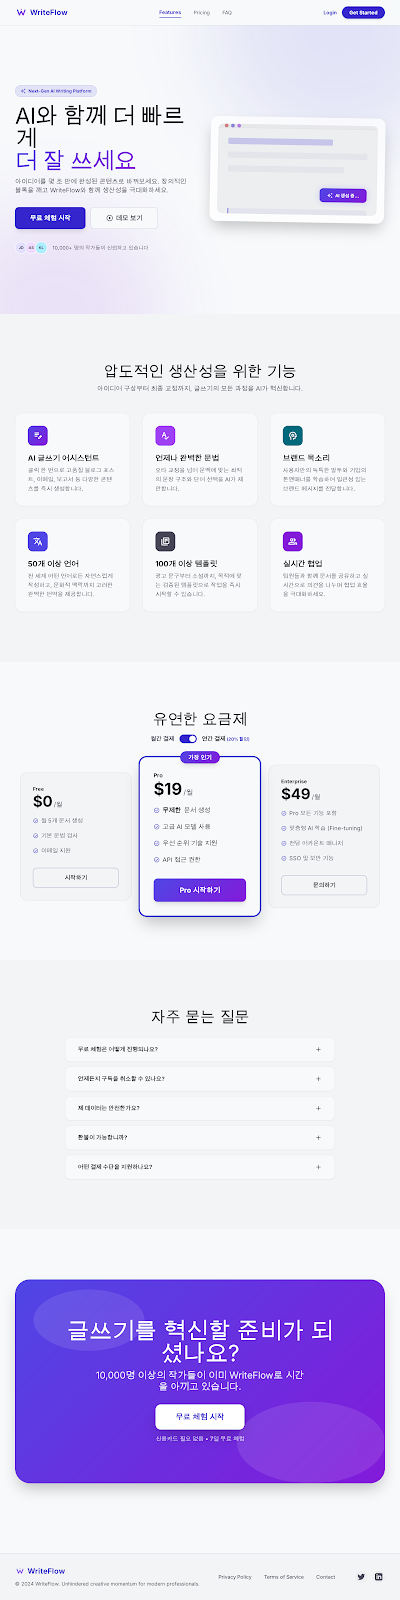
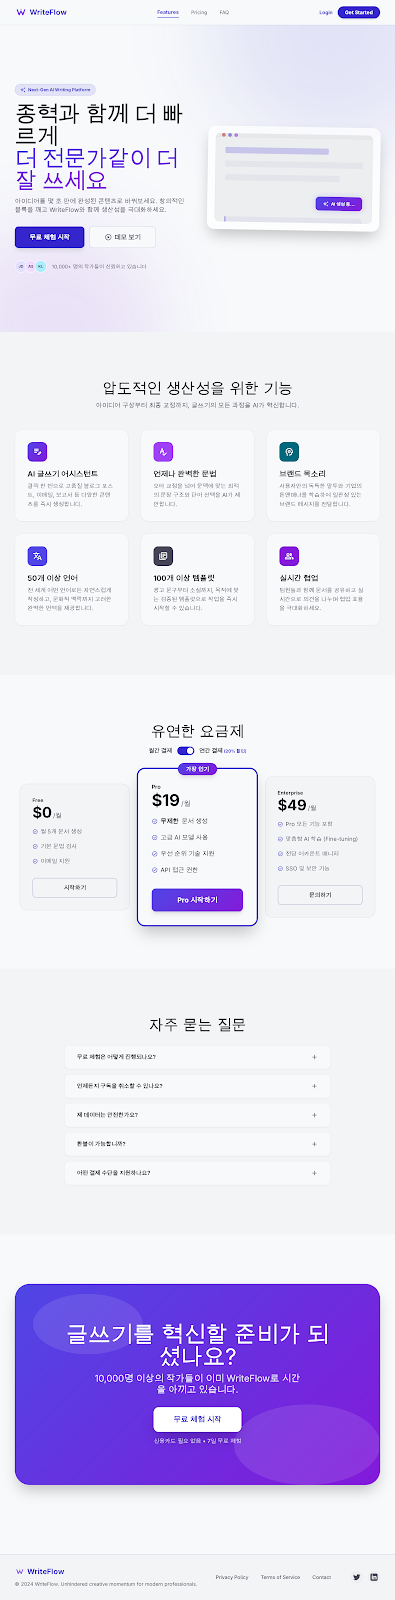
ㅁㄴㅇㅁㄴㅇ

diff --git a/app/pricing/page.tsx b/app/pricing/page.tsx
@@ -10,11 +10,11 @@ export default function Pricing() {
           className="w-full h-auto block"
         />
 
-        {/* 상단 네비게이션 통일 영역 (기존 메뉴를 흰색 배경으로 덮어씀) */}
-        <div className="absolute top-0 right-0 w-[60%] h-[80px] bg-white z-20 flex items-center justify-end gap-8 md:gap-12 px-10">
-          <Link href="/" className="cursor-pointer text-gray-800 hover:text-blue-600 font-bold text-[16px] md:text-[18px] whitespace-nowrap transition-colors">기능</Link>
-          <Link href="/pricing" className="cursor-pointer text-gray-800 hover:text-blue-600 font-bold text-[16px] md:text-[18px] whitespace-nowrap transition-colors">요금제</Link>
-          <Link href="/faq" className="cursor-pointer text-gray-800 hover:text-blue-600 font-bold text-[16px] md:text-[18px] whitespace-nowrap transition-colors">자주 묻는 질문</Link>
+        {/* 상단 네비게이션 투명 클릭 영역 (이미지에 디자인이 포함되어 있으므로 영역만 지정) */}
+        <div className="absolute top-0 right-0 w-[70%] h-[80px] z-20 flex items-center justify-end">
+          <Link href="/" className="w-[15%] h-full cursor-pointer" title="기능" />
+          <Link href="/pricing" className="w-[15%] h-full cursor-pointer" title="요금제" />
+          <Link href="/faq" className="w-[20%] h-full cursor-pointer mr-[2%]" title="자주 묻는 질문" />
         </div>
         
         {/* 로고 영역 클릭 (홈으로) */}

diff --git a/app/faq/page.tsx b/app/faq/page.tsx
@@ -10,11 +10,11 @@ export default function FAQ() {
           className="w-full h-auto block"
         />
 
-        {/* 상단 네비게이션 통일 영역 (기존 메뉴를 흰색 배경으로 덮어씀) */}
-        <div className="absolute top-0 right-0 w-[60%] h-[80px] bg-white z-20 flex items-center justify-end gap-8 md:gap-12 px-10">
-          <Link href="/" className="cursor-pointer text-gray-800 hover:text-blue-600 font-bold text-[16px] md:text-[18px] whitespace-nowrap transition-colors">기능</Link>
-          <Link href="/pricing" className="cursor-pointer text-gray-800 hover:text-blue-600 font-bold text-[16px] md:text-[18px] whitespace-nowrap transition-colors">요금제</Link>
-          <Link href="/faq" className="cursor-pointer text-gray-800 hover:text-blue-600 font-bold text-[16px] md:text-[18px] whitespace-nowrap transition-colors">자주 묻는 질문</Link>
+        {/* 상단 네비게이션 투명 클릭 영역 (이미지에 디자인이 포함되어 있으므로 영역만 지정) */}
+        <div className="absolute top-0 right-0 w-[70%] h-[80px] z-20 flex items-center justify-end">
+          <Link href="/" className="w-[15%] h-full cursor-pointer" title="기능" />
+          <Link href="/pricing" className="w-[15%] h-full cursor-pointer" title="요금제" />
+          <Link href="/faq" className="w-[20%] h-full cursor-pointer mr-[2%]" title="자주 묻는 질문" />
         </div>
         
         {/* 로고 영역 클릭 (홈으로) */}

diff --git a/app/page.tsx b/app/page.tsx
@@ -27,11 +27,11 @@ export default function Home() {
           </h1>
         </div>
 
-        {/* 상단 네비게이션 통일 영역 (기존 메뉴를 흰색 배경으로 덮어씀) */}
-        <div className="absolute top-0 right-0 w-[60%] h-[80px] bg-white z-20 flex items-center justify-end gap-8 md:gap-12 px-10">
-          <Link href="/" className="cursor-pointer text-gray-800 hover:text-blue-600 font-bold text-[16px] md:text-[18px] whitespace-nowrap transition-colors">기능</Link>
-          <Link href="/pricing" className="cursor-pointer text-gray-800 hover:text-blue-600 font-bold text-[16px] md:text-[18px] whitespace-nowrap transition-colors">요금제</Link>
-          <Link href="/faq" className="cursor-pointer text-gray-800 hover:text-blue-600 font-bold text-[16px] md:text-[18px] whitespace-nowrap transition-colors">자주 묻는 질문</Link>
+        {/* 상단 네비게이션 투명 클릭 영역 (이미지에 디자인이 포함되어 있으므로 영역만 지정) */}
+        <div className="absolute top-0 right-0 w-[70%] h-[80px] z-20 flex items-center justify-end">
+          <Link href="/" className="w-[15%] h-full cursor-pointer" title="기능" />
+          <Link href="/pricing" className="w-[15%] h-full cursor-pointer" title="요금제" />
+          <Link href="/faq" className="w-[20%] h-full cursor-pointer mr-[2%]" title="자주 묻는 질문" />
         </div>
         
         {/* 로고 영역 클릭 (홈으로) */}
